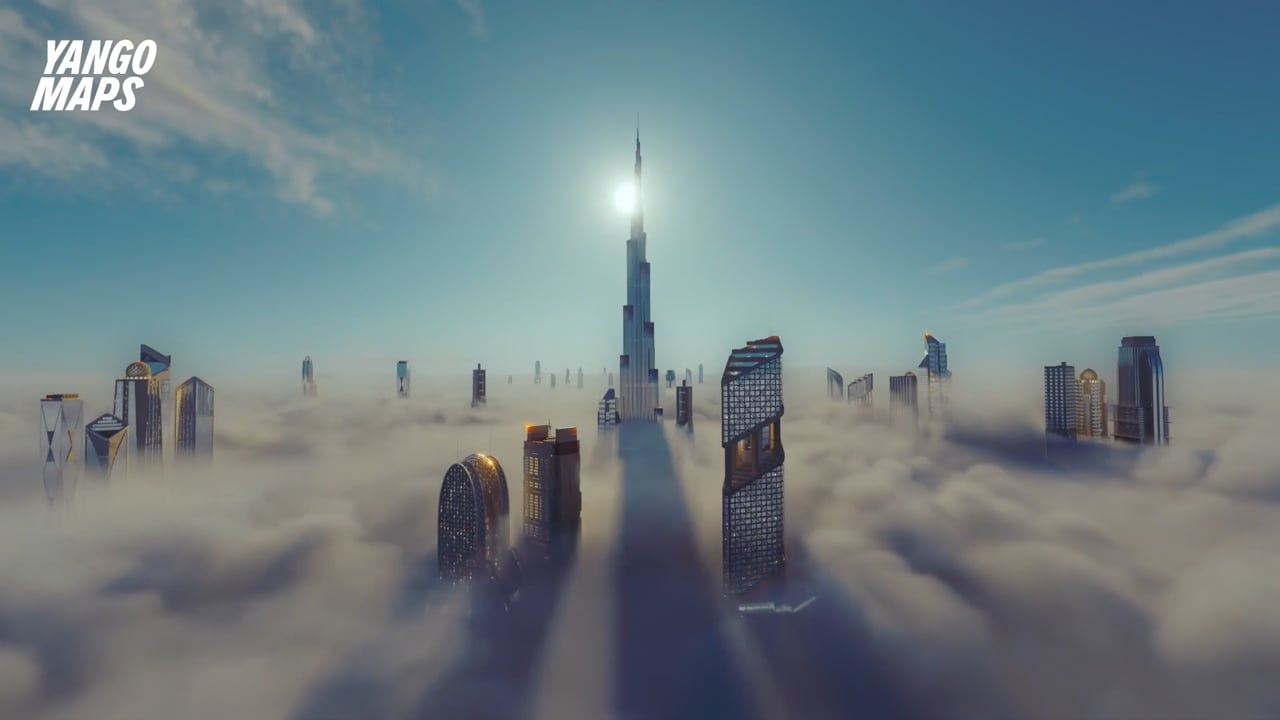
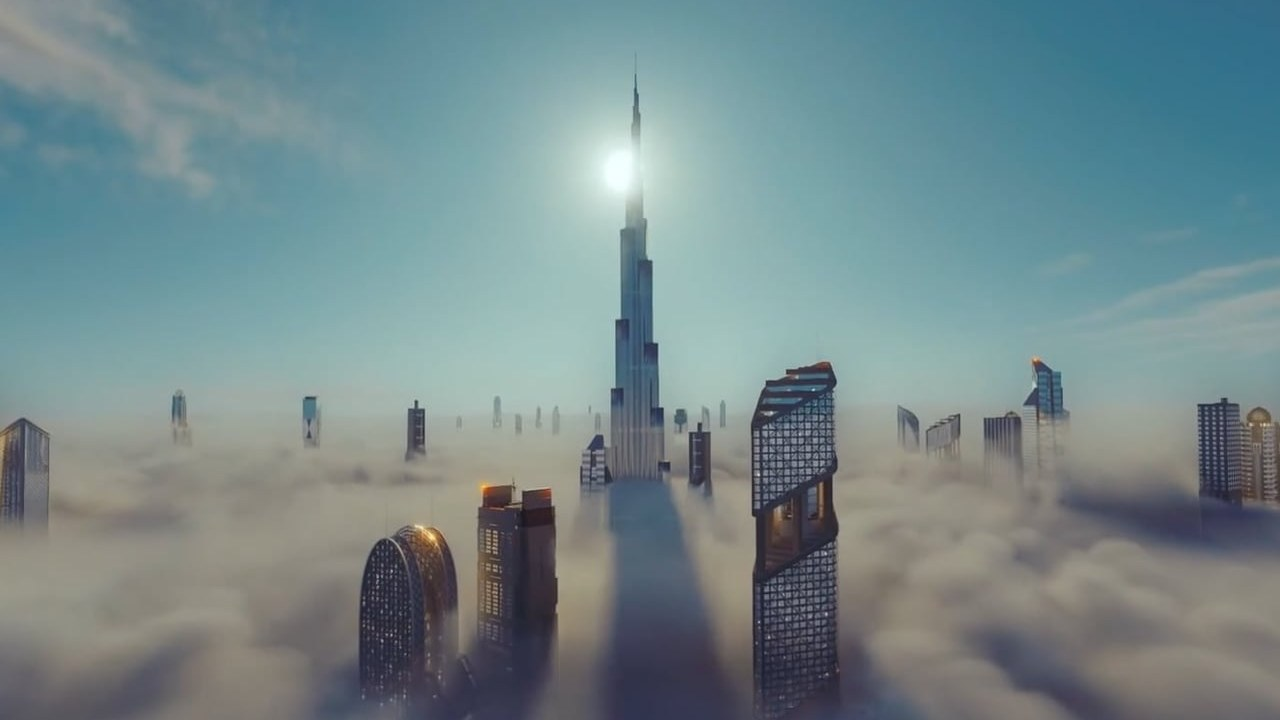
Work: truncate captions at | (shorter names); refresh YANGO cover from current Vimeo poster

diff --git a/script.js b/script.js
@@ -48,13 +48,14 @@ const BATCH = 6;
 let shown = 0;
 
 function workCard(w){
+  const label = w.name.split('|')[0].trim();
   return `
-  <button type="button" class="work__item work__item--new" data-vimeo="${w.vimeo}" data-name="${w.name.replace(/"/g,'&quot;')}" aria-label="Play ${w.name.replace(/"/g,'&quot;')}">
-    <img src="${w.img}" alt="${w.name} — REEF Audio project still" loading="lazy">
+  <button type="button" class="work__item work__item--new" data-vimeo="${w.vimeo}" data-name="${label.replace(/"/g,'&quot;')}" aria-label="Play ${label.replace(/"/g,'&quot;')}">
+    <img src="${w.img}" alt="${label} — REEF Audio project still" loading="lazy">
     <span class="work__play" aria-hidden="true">
       <svg viewBox="0 0 24 24" width="22" height="22" fill="currentColor"><path d="M8 5v14l11-7z"/></svg>
     </span>
-    <div class="work__overlay"><span class="work__name">${w.name}</span></div>
+    <div class="work__overlay"><span class="work__name">${label}</span></div>
   </button>`;
 }
 // reveal work items as they scroll into view (not static)